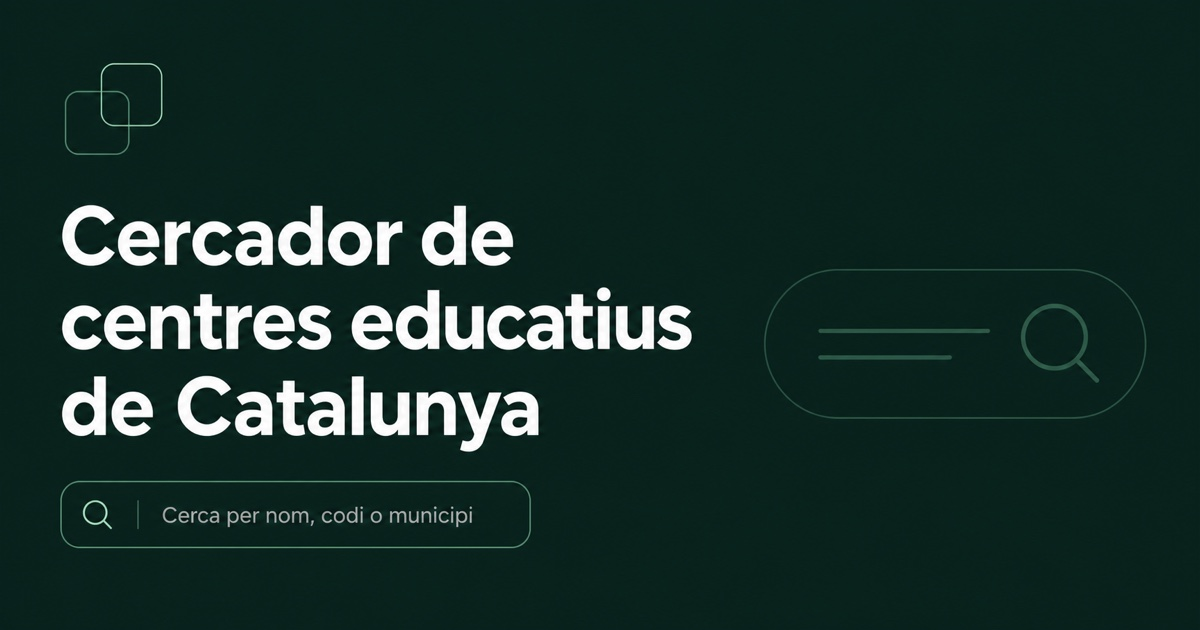
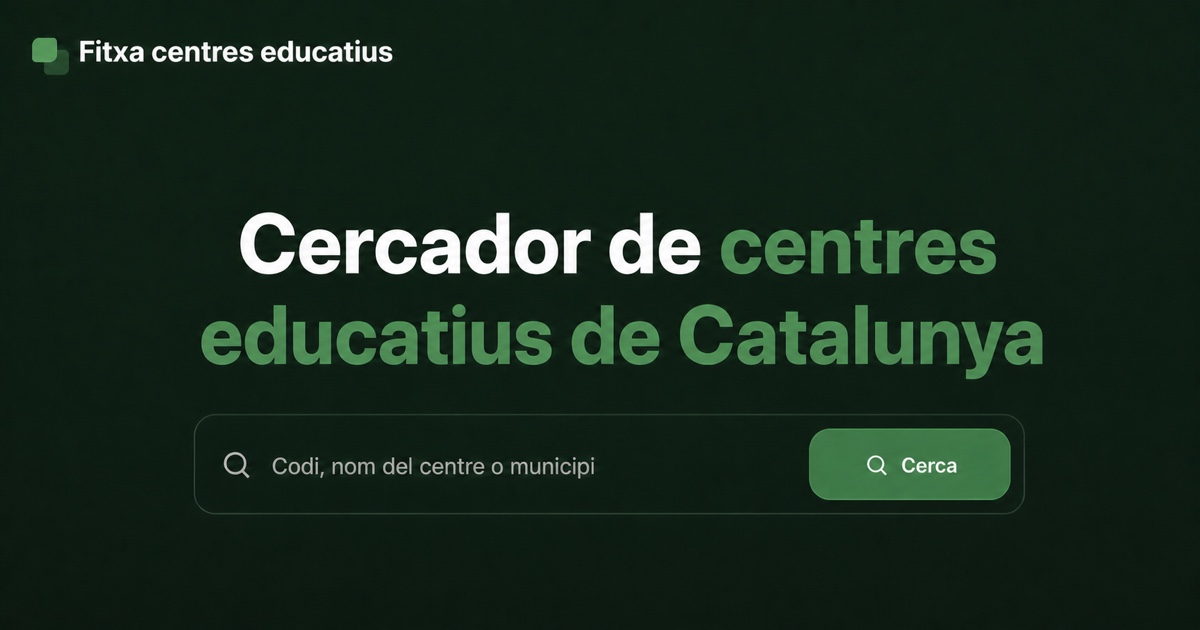
Actualitza la marca a Fitxa centres educatius

diff --git a/web/index.html b/web/index.html
@@ -10,18 +10,18 @@
   <link rel="canonical" href="https://fitxa-centres.vercel.app/" />
   <meta property="og:type" content="website" />
   <meta property="og:locale" content="ca_ES" />
-  <meta property="og:site_name" content="Fitxa Centres" />
+  <meta property="og:site_name" content="Fitxa centres educatius" />
   <meta property="og:title" content="Cercador de centres educatius de Catalunya" />
   <meta property="og:description" content="Cerca centres educatius de Catalunya per nom, codi o municipi i consulta’n la fitxa, el contacte, els estudis, el personal docent i els mapes." />
   <meta property="og:url" content="https://fitxa-centres.vercel.app/" />
-  <meta property="og:image" content="https://fitxa-centres.vercel.app/assets/social-preview.jpg?v=2" />
+  <meta property="og:image" content="https://fitxa-centres.vercel.app/assets/social-preview.jpg?v=3" />
   <meta property="og:image:width" content="1200" />
   <meta property="og:image:height" content="630" />
   <meta property="og:image:alt" content="Cercador de centres educatius de Catalunya" />
   <meta name="twitter:card" content="summary_large_image" />
   <meta name="twitter:title" content="Cercador de centres educatius de Catalunya" />
   <meta name="twitter:description" content="Cerca centres educatius de Catalunya per nom, codi o municipi i consulta’n la fitxa, el contacte, els estudis, el personal docent i els mapes." />
-  <meta name="twitter:image" content="https://fitxa-centres.vercel.app/assets/social-preview.jpg?v=2" />
+  <meta name="twitter:image" content="https://fitxa-centres.vercel.app/assets/social-preview.jpg?v=3" />
   <meta name="twitter:image:alt" content="Cercador de centres educatius de Catalunya" />
   <title>Cercador de centres educatius de Catalunya | Fitxa Centres</title>
   <script>
@@ -46,7 +46,7 @@
     <header class="site-header">
       <a class="brand" href="./" aria-label="Inici">
         <span class="brand-mark" aria-hidden="true"></span>
-        <span>Centres educatius</span>
+        <span>Fitxa centres educatius</span>
       </a>
       <div class="header-actions">
         <button id="themeButton" class="theme-button" type="button" aria-label="Activa el tema fosc" title="Activa el tema fosc">
